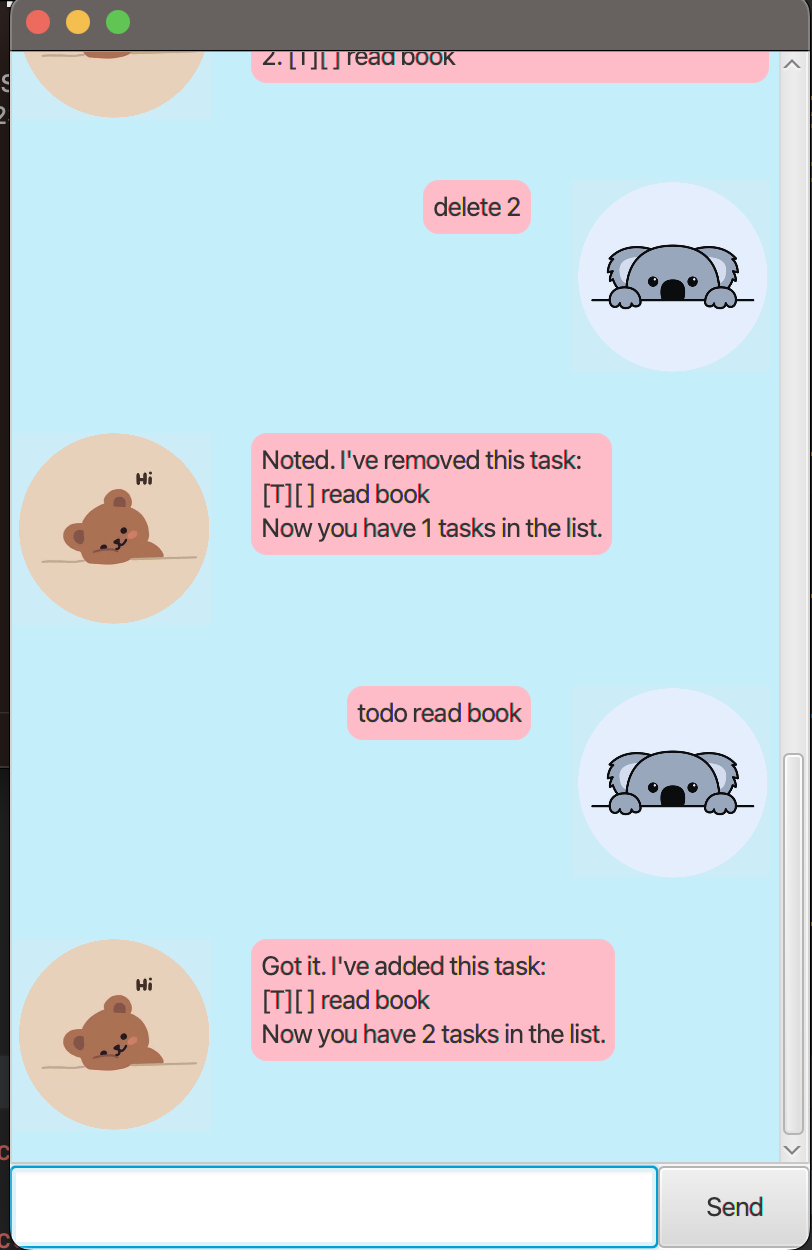
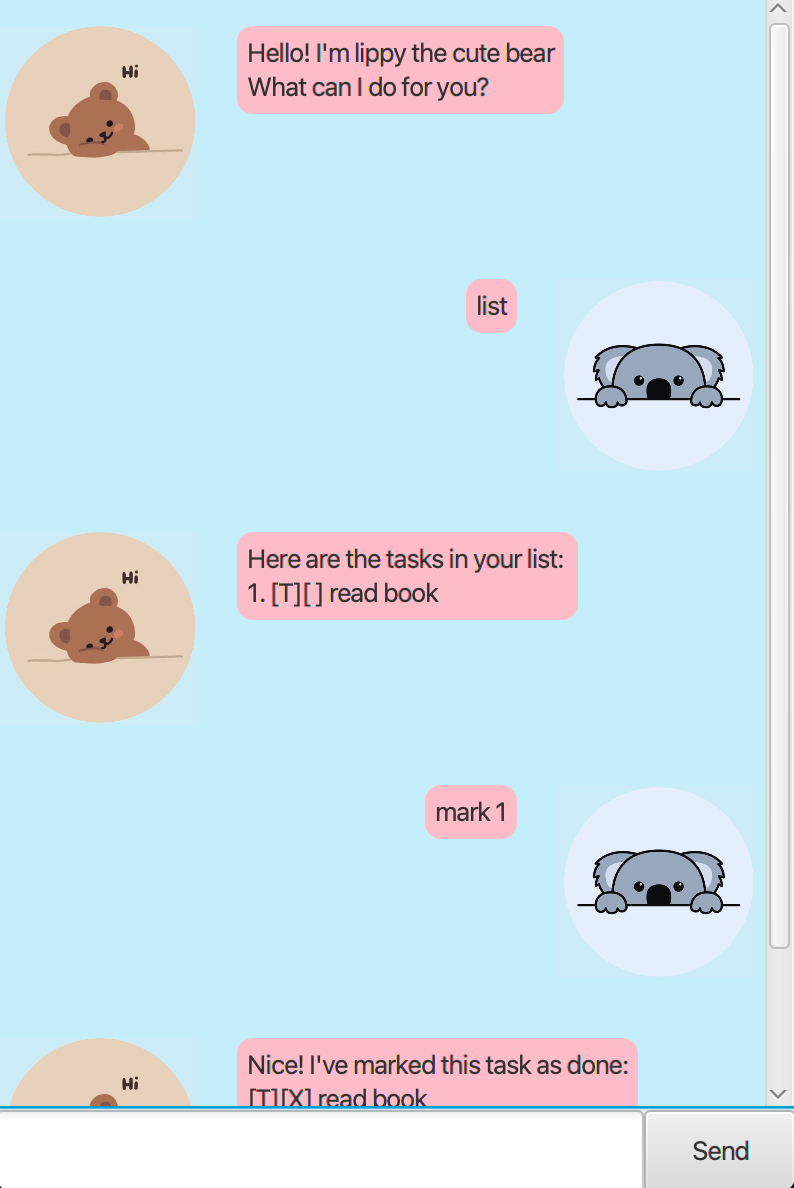
edited Ui.png

diff --git a/src/main/java/duke/Ui.java b/src/main/java/duke/Ui.java
@@ -20,16 +20,18 @@ public class Ui {
 
     /**
      * Prints to standard output a greeting message.
+     *
+     * @return
      */
-    public static void printGreetings() {
-        System.out.println("Hello! I'm lippy the wombat\n" + "What can I do for you?");
+    public static String printGreetings() {
+        return "Hello! I'm lippy the cute bear\n" + "What can I do for you?";
     }
 
     /**
      * Prints to an input bye.
      */
-    public static void printBYE() {
-        System.out.println("Bye. Hope to see you again soon!");
+    public static String printBYE() {
+        return "Bye. Hope to see you again soon!";
     }
 
     /**

diff --git a/src/main/java/duke/Main.java b/src/main/java/duke/Main.java
@@ -5,6 +5,7 @@ import java.io.IOException;
 import javafx.application.Application;
 import javafx.fxml.FXMLLoader;
 import javafx.scene.Scene;
+import javafx.scene.control.Alert;
 import javafx.scene.layout.AnchorPane;
 import javafx.stage.Stage;
 
@@ -14,7 +15,6 @@ import javafx.stage.Stage;
 public class Main extends Application {
 
     private Duke duke = new Duke();
-
     @Override
     public void start(Stage stage) {
         try {

diff --git a/src/main/java/duke/Parser.java b/src/main/java/duke/Parser.java
@@ -18,7 +18,7 @@ public class Parser {
      */
     public static String handleInput(String input, TaskList taskList, Boolean isLoading) {
         if (input.equals("bye")) {
-            return "";
+            return Ui.printBYE();
         }
         if (input.startsWith("mark") || input.startsWith("unmark ")) {
             return handleMark(input, taskList, isLoading);

diff --git a/src/main/java/duke/MainWindow.java b/src/main/java/duke/MainWindow.java
@@ -32,6 +32,7 @@ public class MainWindow extends AnchorPane {
 
     public void setDuke(Duke d) {
         duke = d;
+        dialogContainer.getChildren().add(DialogBox.getDukeDialog(Ui.printGreetings(), dukeImage));
     }
 
     /**
